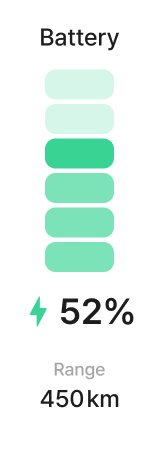
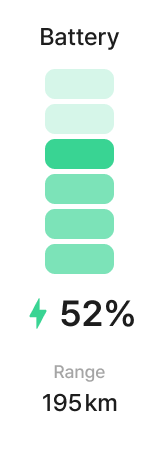
ai 마크 사이즈 조절, 배터리 195km

diff --git a/src/components/AiWindow.css b/src/components/AiWindow.css
@@ -208,7 +208,7 @@
   gap: 15px;
 
   width: 546px;
-  height: 160px;
+  height: 173px;
 
   background-image: url('../assets/images/btn-ai.png');
   background-size: auto 100%;
@@ -231,7 +231,7 @@
   gap: 15px;
 
   width: 546px;
-  height: 330px;
+  height: 300px;
 
   /* Inside auto layout */
   flex: none;
